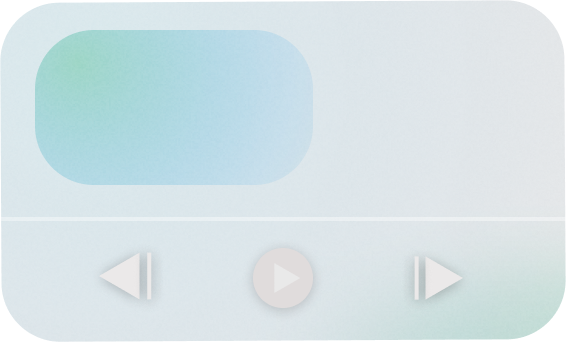
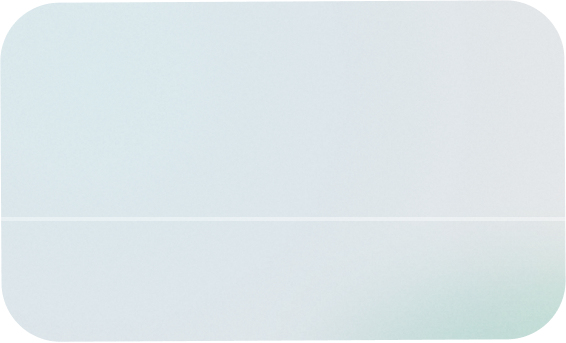
latest

diff --git a/index.html b/index.html
@@ -8,9 +8,8 @@
   <body>
 
     <header>
-      <!-- insert logo -->
+
       <img class="logo" src="./logo.png" alt="logo">
-      <!-- insert logo -->
 
 
       <div class="right-side">
@@ -28,7 +27,7 @@
           </ul>
         </nav>
 
-        <img src="./search.png" alt="search">
+        <img id="search" src="./search.png" alt="search">
 
         <!-- search bar -->
 
@@ -45,9 +44,19 @@
       <div id="genres"></div>
     </div>
 
+    <div id="particles"></div>
+
     <div class="music-player">
       <img src="./musicplayer.png" alt="music player">
+      
+      <div class="player-buttons">
+        <img src="./leftplaybutton.png" alt="left player button">
+        <img src="./playbutton.png" alt="player button">
+        <img src="./rightplaybutton.png" alt="right player button">
+      </div>
+
     </div>
+
 
     <svg width="100%" height="100%" id="svg" viewBox="0 0 1440 400" xmlns="http://www.w3.org/2000/svg" class="wave-bg transition duration-300 ease-in-out delay-150"><style>
 .path-0{
@@ -119,4 +128,5 @@
     </svg>
   </body>
   <script src="./script.js"></script>
+
 </html>

diff --git a/styles.css b/styles.css
@@ -89,4 +89,20 @@ header {
 .music-player {
   display: flex;
   justify-content: center;
+  position: relative;
+}
+
+.player-buttons {
+  height: 54px;
+  width: 54px;
+  position: absolute;
+  top: 250px;
+  gap: 1.5rem;
+  display: flex;
+  justify-content: center;
+  flex-direction: row;
+}
+
+img .music-player {
+  width: 30%;
 }
